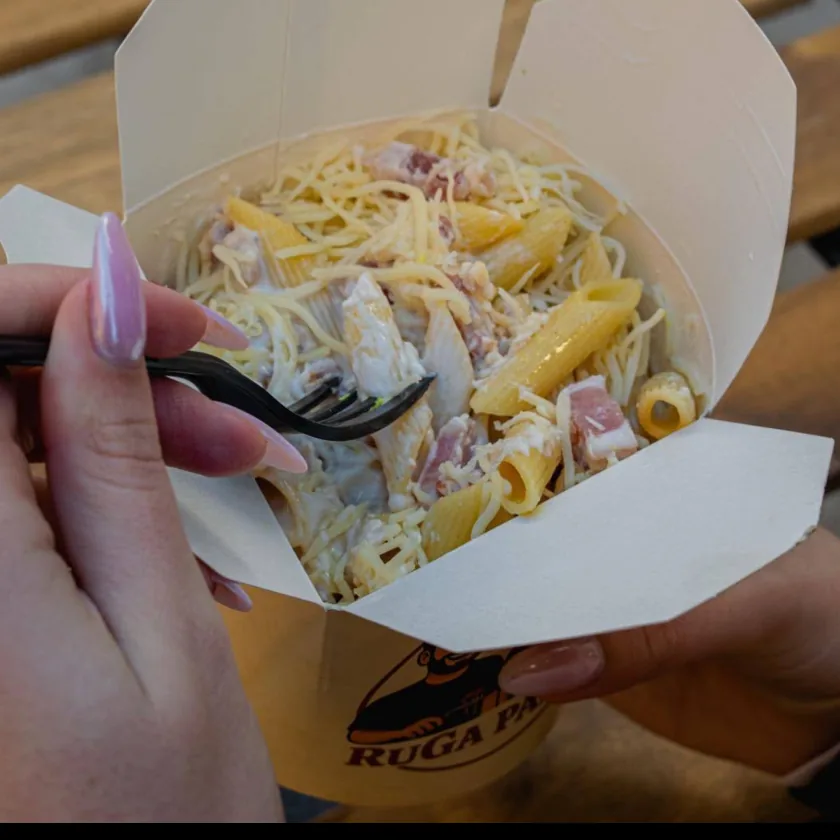
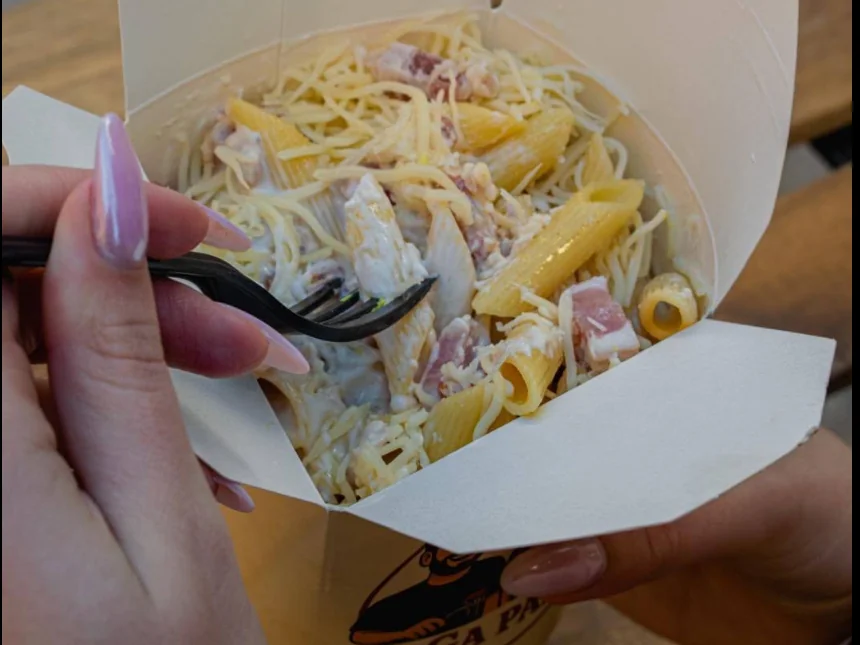
Galerie harmonisée en 4:3 et cibles tactiles conformes WCAG sur mobile
- Recadre gal-box et gal-terrasse en 4:3 depuis les photos d'origine :
  la terrasse met maintenant les boxes au centre (l'ancien carré gardait
  une bande de mur qui distrayait), les 3 photos de la galerie ont le
  même rythme visuel
- Dots du carrousel d'avis : pastille visuelle inchangée (12 px) mais
  zone cliquable étendue à 44x44 px (WCAG 2.5.8) — inatteignables au
  doigt avant
- Footer : liens navigation et téléphone passent à ~33 px de haut

QA mobile vérifié : barre fixe 57 px, menu mobile >= 48 px par lien,
burger 44 px, scroll bloqué/rendu correctement, 0 overflow horizontal,
0 image cassée.

🤖 Generated with Codebuff

diff --git a/src/components/Reviews.tsx b/src/components/Reviews.tsx
@@ -206,10 +206,23 @@ export function Reviews() {
                   aria-current={index === i ? "true" : undefined}
                   aria-label={`Afficher l'avis de ${r.name}`}
                   onClick={() => setIndex(i)}
-                  className={`relative h-3 overflow-hidden rounded-full transition-all duration-300 ${
-                    index === i ? "w-8 bg-ink/10" : "w-3 bg-ink/20 hover:bg-ink/40"
+                  className={`group relative h-3 overflow-visible rounded-full transition-all duration-300 ${
+                    index === i ? "w-8" : "w-3"
                   }`}
                 >
+                  {/* Pastille visuelle 12 px (le bouton lui-même reste fin), + zone
+                      tactile étendue à 44 px sans décaler la mise en page (WCAG
+                      2.5.8 : les dots de 12 px étaient bien trop petits au doigt). */}
+                  <span
+                    aria-hidden="true"
+                    className={`absolute inset-0 rounded-full transition-colors duration-300 ${
+                      index === i ? "bg-ink/10" : "bg-ink/20 group-hover:bg-ink/40"
+                    }`}
+                  />
+                  <span
+                    aria-hidden="true"
+                    className="absolute left-1/2 top-1/2 -z-10 h-11 w-11 -translate-x-1/2 -translate-y-1/2"
+                  />
                   {/* Remplissage progressif = temps restant avant la slide suivante.
                       La key inclut `index` et `paused` : le timer JS repart de 7 s
                       après un changement de slide ou une pause/reprise, la barre

diff --git a/src/components/Footer.tsx b/src/components/Footer.tsx
@@ -40,7 +40,7 @@ export function Footer() {
               <p>
                 <a
                   href={restaurant.phoneHref}
-                  className="transition-colors hover:text-sun"
+                  className="inline-block py-1.5 transition-colors hover:text-sun"
                 >
                   {restaurant.phoneDisplay}
                 </a>
@@ -61,7 +61,7 @@ export function Footer() {
                 <li key={link.href}>
                   <a
                     href={link.href}
-                    className="text-sm font-semibold text-cream/80 transition-colors hover:text-tomato"
+                    className="inline-block py-1.5 text-sm font-semibold text-cream/80 transition-colors hover:text-tomato"
                   >
                     {link.label}
                   </a>
